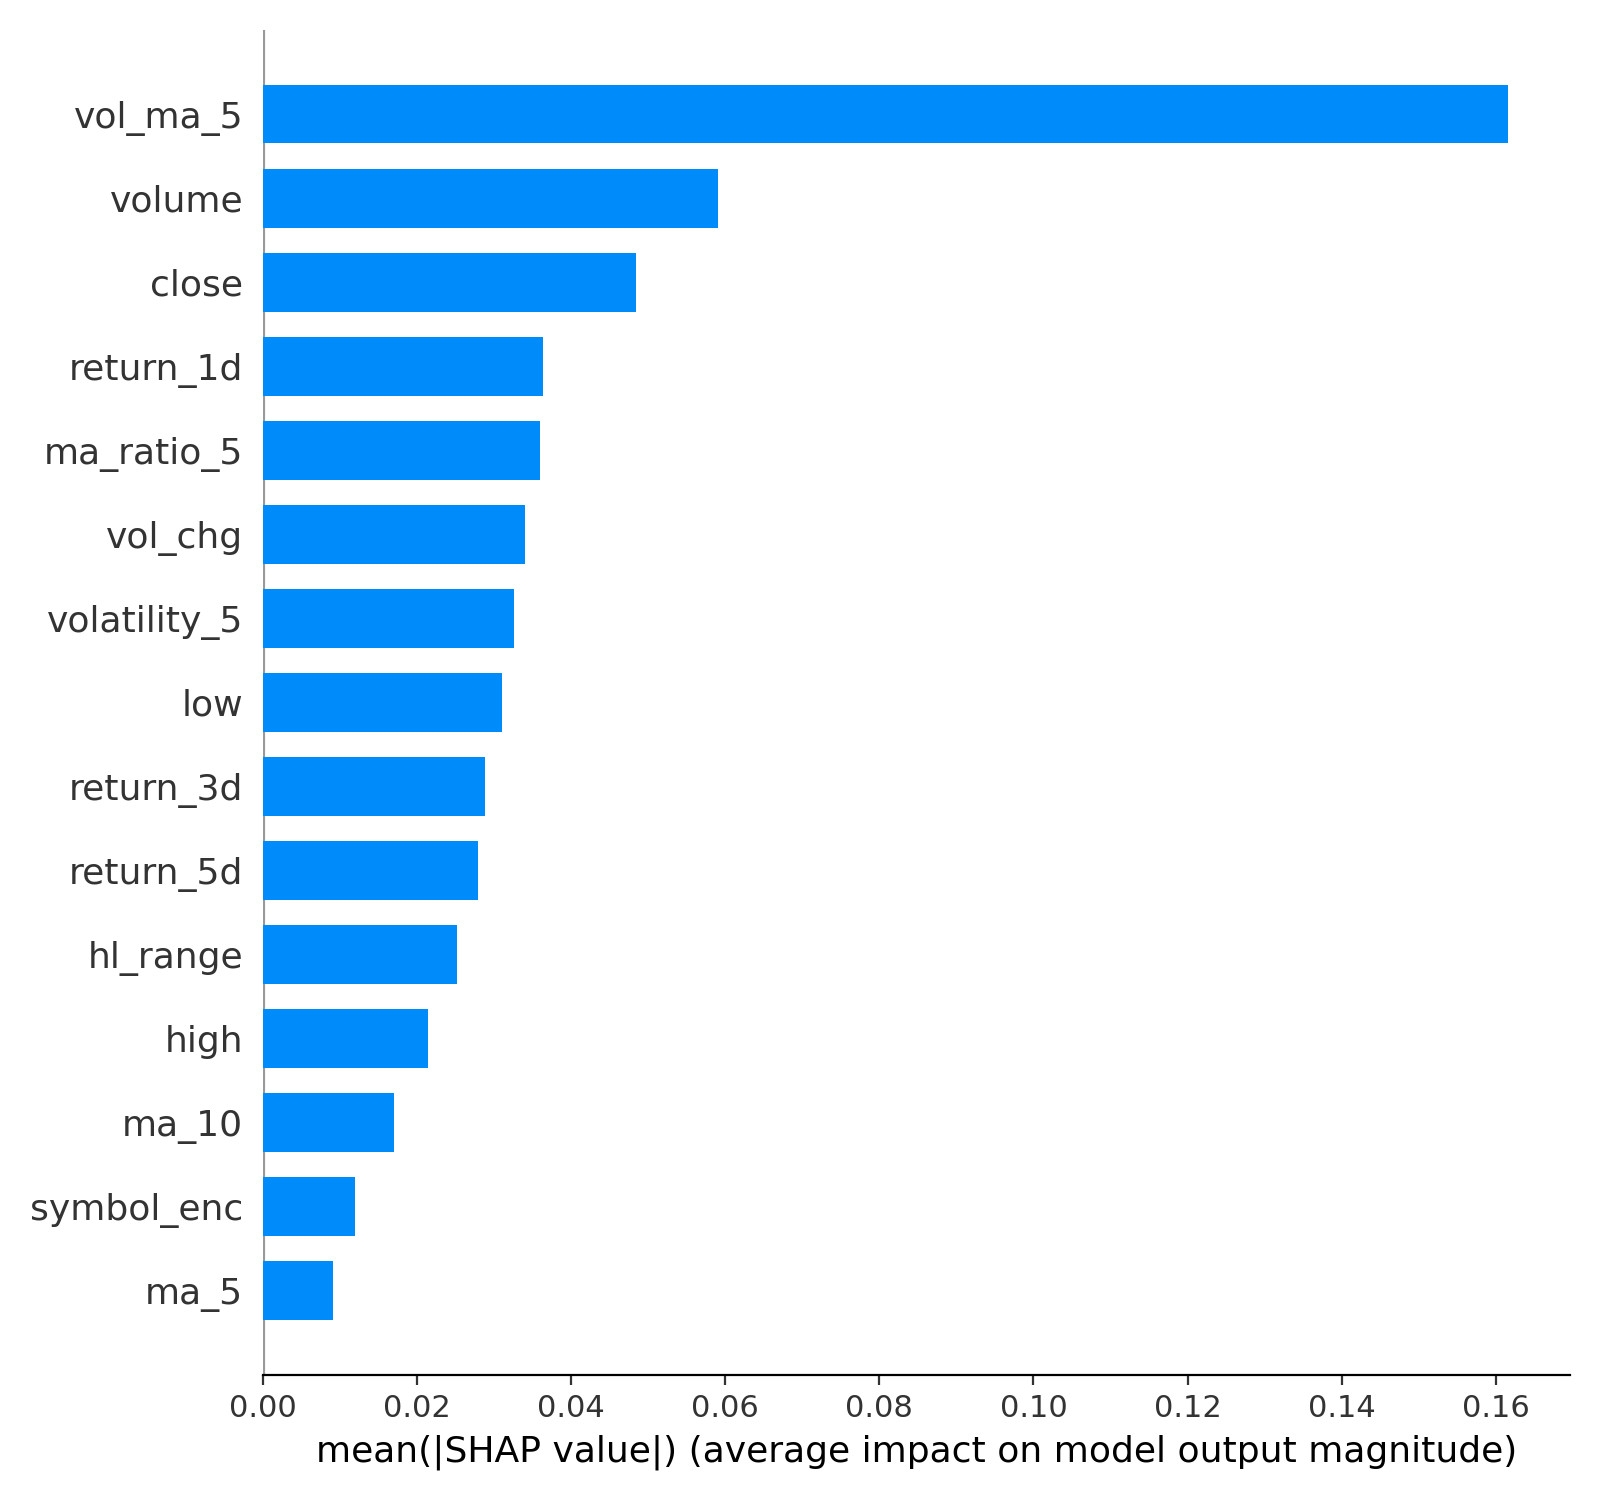
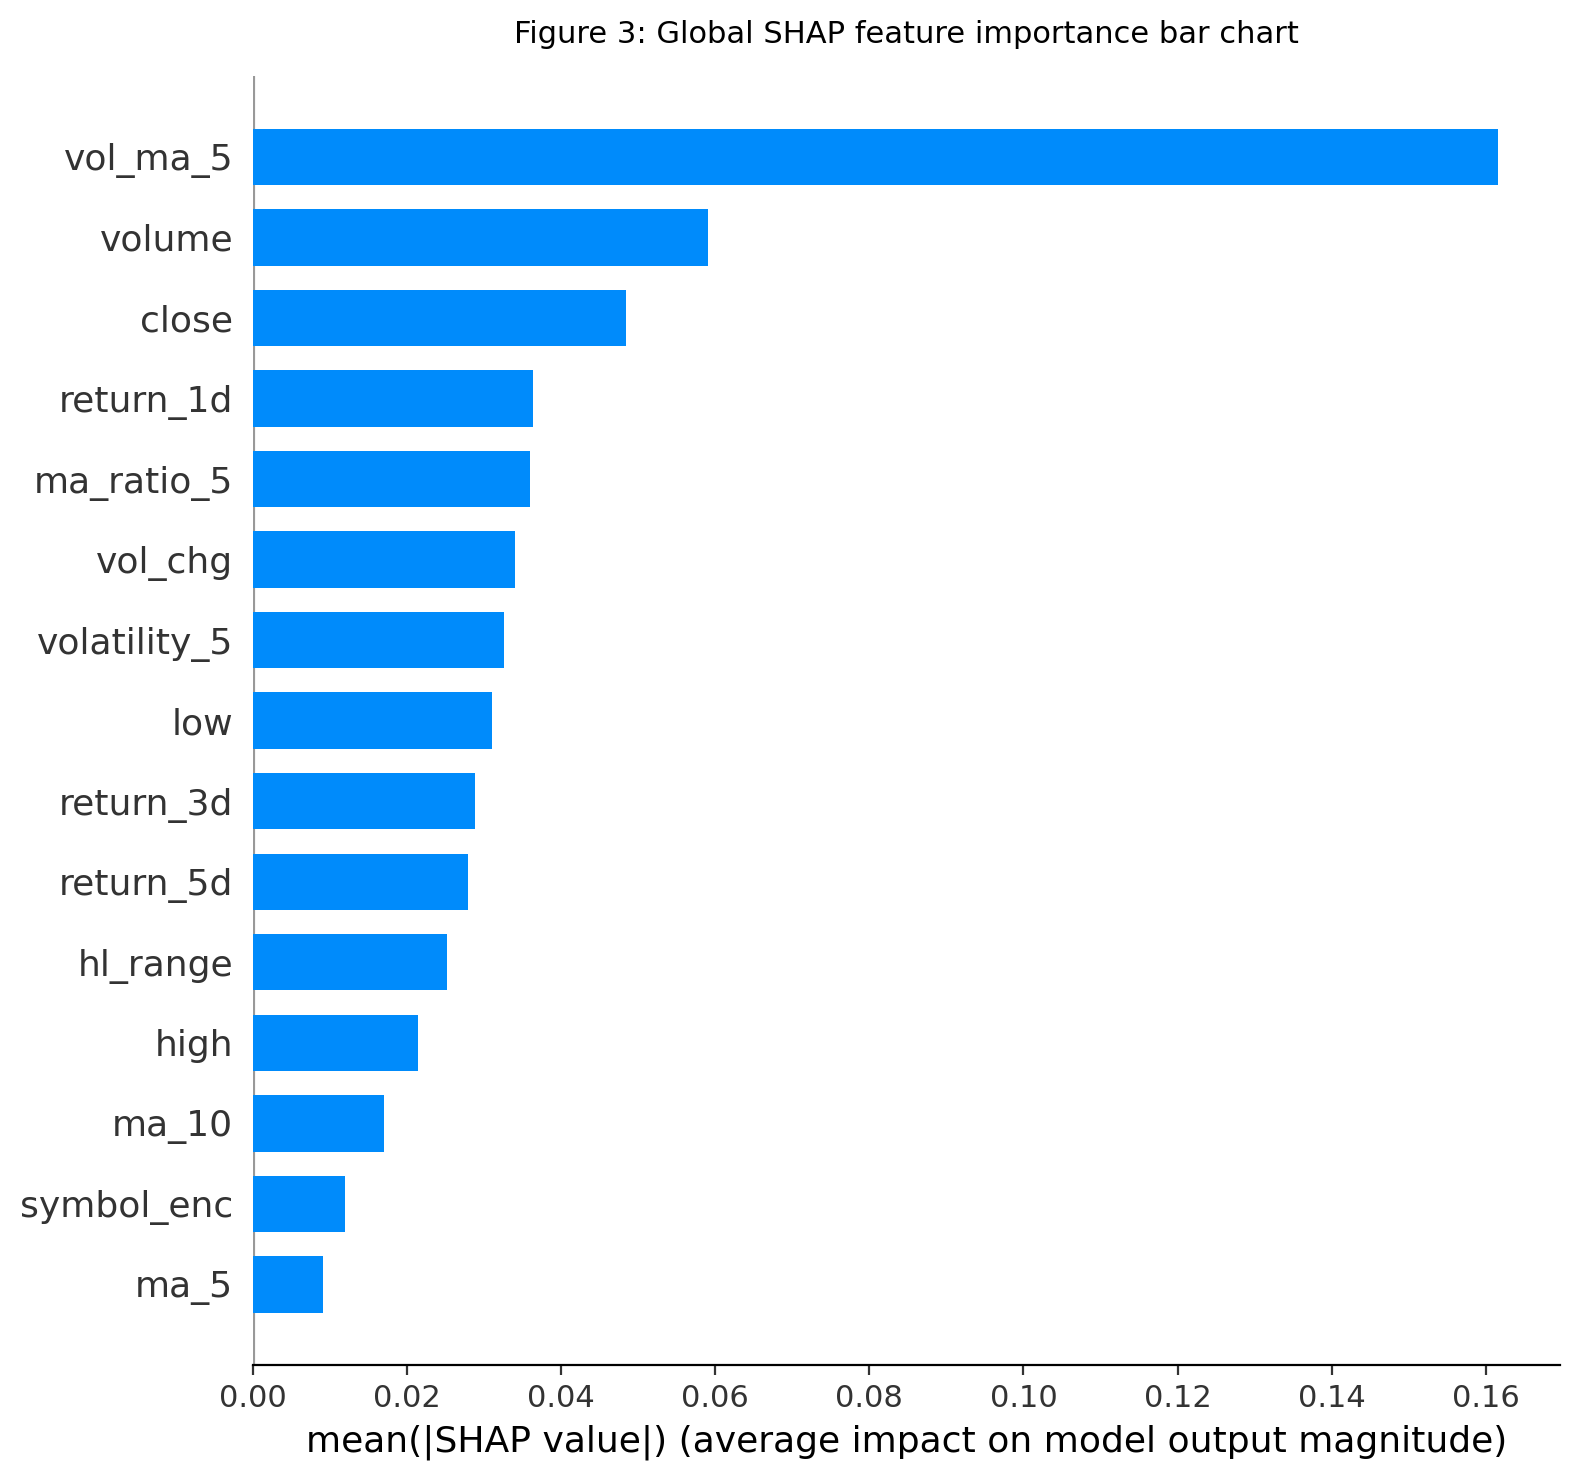
Update shap generated figures to have a title

Changed region(s): [[0.0, 0.0, 0.993, 0.9946]]

diff --git a/src/shap_analysis.py b/src/shap_analysis.py
@@ -38,15 +38,17 @@ print("SHAP values computed. Shape:", shap_values.shape)
 # ---------- Global summary ----------
 plt.figure()
 shap.summary_plot(shap_values, X, show=False)
+plt.gca().set_title("Figure 4: SHAP summary (beeswarm) plot", fontsize=11, pad=12)
 plt.tight_layout()
-plt.savefig("reports/shap_summary.png", dpi=200)
+plt.savefig("reports/shap_summary.png", dpi=200, bbox_inches="tight")
 plt.close()
 
 # ---------- Bar importance ----------
 plt.figure()
 shap.summary_plot(shap_values, X, plot_type="bar", show=False)
+plt.gca().set_title("Figure 3: Global SHAP feature importance bar chart", fontsize=11, pad=12)
 plt.tight_layout()
-plt.savefig("reports/shap_importance_bar.png", dpi=200)
+plt.savefig("reports/shap_importance_bar.png", dpi=200, bbox_inches="tight")
 plt.close()
 
 # ---------- Local explanation ----------
@@ -61,8 +63,10 @@ shap.waterfall_plot(
     ),
     show=False
 )
+
+plt.title("Figure 5: SHAP waterfall plot for one prediction", fontsize=11, pad=12)
 plt.tight_layout()
-plt.savefig("reports/shap_waterfall_example.png", dpi=200)
+plt.savefig("reports/shap_waterfall_example.png", dpi=200, bbox_inches="tight")
 plt.close()
 
 print("SHAP plots saved to reports/:")
